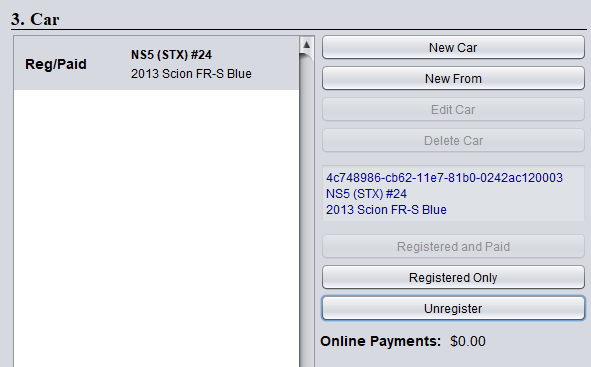
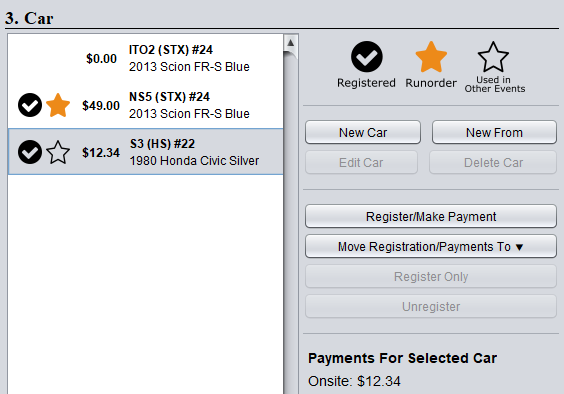
some more documentation bits

Changed region(s): [[0.0, 0.03, 0.9947, 1.0]]

diff --git a/docs/registration.md b/docs/registration.md
@@ -13,7 +13,7 @@ accidental event selection does not occur during registration activity.
 
 ## Standard Actions
 
-1. Enter part of the first and/or last name.  More information produces a shorter list of drivers in the next step.
+1. Either enter part of the first and/or last name OR scan the driver's barcode.  More name information produces a shorter list of drivers in the next step.
 
 ![SearchBox](images/regsearch.png)
 
@@ -27,17 +27,28 @@ accidental event selection does not occur during registration activity.
     * If a barcode is needed, click Print Label to print to the selected printer device - make sure correct printer is selected.
 
 4. Verify the correct car(s), class(es) and index are registered. 
-    * Default status for preregistered drivers is **Registered** or **Reg/Paid** if they paid online
+    * Default status icons for preregistered drivers is the black checkmark as seen in the legend.  If they paid online, an amount will show next to the car.
     * Cars can be created, edited or deleted. 
-        * **New From** prefills the data with the selected car - which can then be edited as needed (saves having to enter all car info if only needs a different class or car number) 
-    * To change a car entry, select it and click **Registered** and **Paid**, **Registered Only** or **Unregister**
-        * **Registered** means the car was registered but has not been paid for yet
-        * **Reg/Paid** means that the car was registered and marked as paid
-        * **In Event** means the car already has times recorded in the event
-        * **Other** means that the car is registered or has runs in another event
-    * Entries that are not marked as **Reg/Paid** can be flagged in data entry, and pulled out of the grid line
+        * **New From** prefills the data with the selected car - which can then be edited as needed (saves having to enter all car info if it only needs a different class or car number) 
+        * The car dialog number field includes a colored square indicator to aid the registration worker
+            * Green - number is avaiable
+            * Yellow - number is used by another driver though the application won't stop the worker from using it
+            * Gray - no data or number provided
+
+    * To change a car entry, select it and click one of the activity buttons
+        * **Register/Make Payment** sets the car status to registered and will ask for the amount paid
+        * **Register Only** sets the car status to registered only
+        * **Unregister** will unregister the car and is only available if the car is registered and *NOT* paid for yet
+        * **Move Registration/Payments** is a special case to move payments from one car to another (i.e. they paid online for one car but moved to another onsite)
+
+    * Entries that have a paid amount of $0.00 can be flagged in data entry
+    * The list of payments for a car are listed on the right panel
 
 ![CarEntry](images/regcars.png)
+
+## Reports
+
+The number use and payment reports are available from the admin page.  Quick access to these pages are available under the Reports menu in registration.
 
 ## Merging
 

diff --git a/docs/dataentry.md b/docs/dataentry.md
@@ -1,23 +1,38 @@
 # Data Entry
 
 ## Preregistered Quick Entry
+The quick entry for printed cards from the previous version of Scorekeeper has been modified.  The carid field is now a UUID
+and not very quick to type in.  The number printed on the timing cards is an integer portion of the car id field but they
+are still too long to type easily.
 
-## Barcode Loading
+Ctrl+Q now opens a quick entry tab in the left side of the screen and places focus on the text field.  This quick entry tab
+contains a list of all the registered entrants.  As you type numbers from the beginning of the number at the top of the timing
+card, this list is reduced to entrants that match. The first entry is always selected.  Usually within 3 - 4 numbers, the list
+is reduced to a single entry.  The Enter key will add the selected value to the run order.  You can also double click an entry
+to select it.
+
+## Filtering Table
+Ctrl+F brings up a filter field.  Entering data into this field will filter the table entry by matching the field with the
+driver name, car number, class and description.  Closing the filter field row automatically clears the filter.
+
+## Manual Barcode Entry
+Ctrl+M brings up a barcode field.  Entering a barcode into this field and hitting Enter is the same as someone scanning the
+barcode with a barcode scanner.
 
 ## Placeholder Entries
+Any time a barcode scan cannot find an applicable driver and/or car entry, a placeholder value is substitued so the user can 
+continue without interruption.  These placeholder should be swapped with the correct entrant when the user has time.  Once a
+placeholder is no longer in use, its entry will be deleted automatically.
 
 ## Change Driver/Car
 To correct a car or driver, first find the driver in the rungroup and double click the driver column. This
 will bring up the driver and car in the manual entry tab. Either select the correct driver and car from
 the lists or create a new ones as needed. When the correct values are selected, click “Swap Entrant”.
-Done.
 
 ## Run Errors
 To correct a run error is the same as correcting a time during data entry. Find the time in the rungroup,
 double click it to load the values into the entries on the right side of the screen, fix as needed and click
 enter.
-
-## Filter Table
 
 ## Auditing
 To perform auditing, select: **Reports -> Current Group Audit -> Order**, where order is the order you would like them printed out.

diff --git a/docs/backup.md b/docs/backup.md
@@ -1,0 +1,14 @@
+
+# Backups
+
+## Local Backups
+
+Every time the scorekeeper backend is shutdown normally using the Shutdown command, a backup of the
+local database is saved in $HOME/scorekeeper/$VERSION/backup/ with a date and schema information in the name.
+
+These backups can be restored from the Scorekeeper Status Window using File &rarr; Import Backup Data.
+
+## Online Backups
+
+The primary Scorekeeper database is backed up on a daily basis.
+

diff --git a/docs/index.md b/docs/index.md
@@ -1,6 +1,7 @@
 - [Changes From V1](changes.md)
 - [Install/First Use](install.md)
 - [Status/Synchronization](sync.md)
+- [Backups](backup.md)
 - [DataEntry](dataentry.md)
 - [Registration](registration.md)
 - [Registration Admin Online](onlineregadmin.md)
